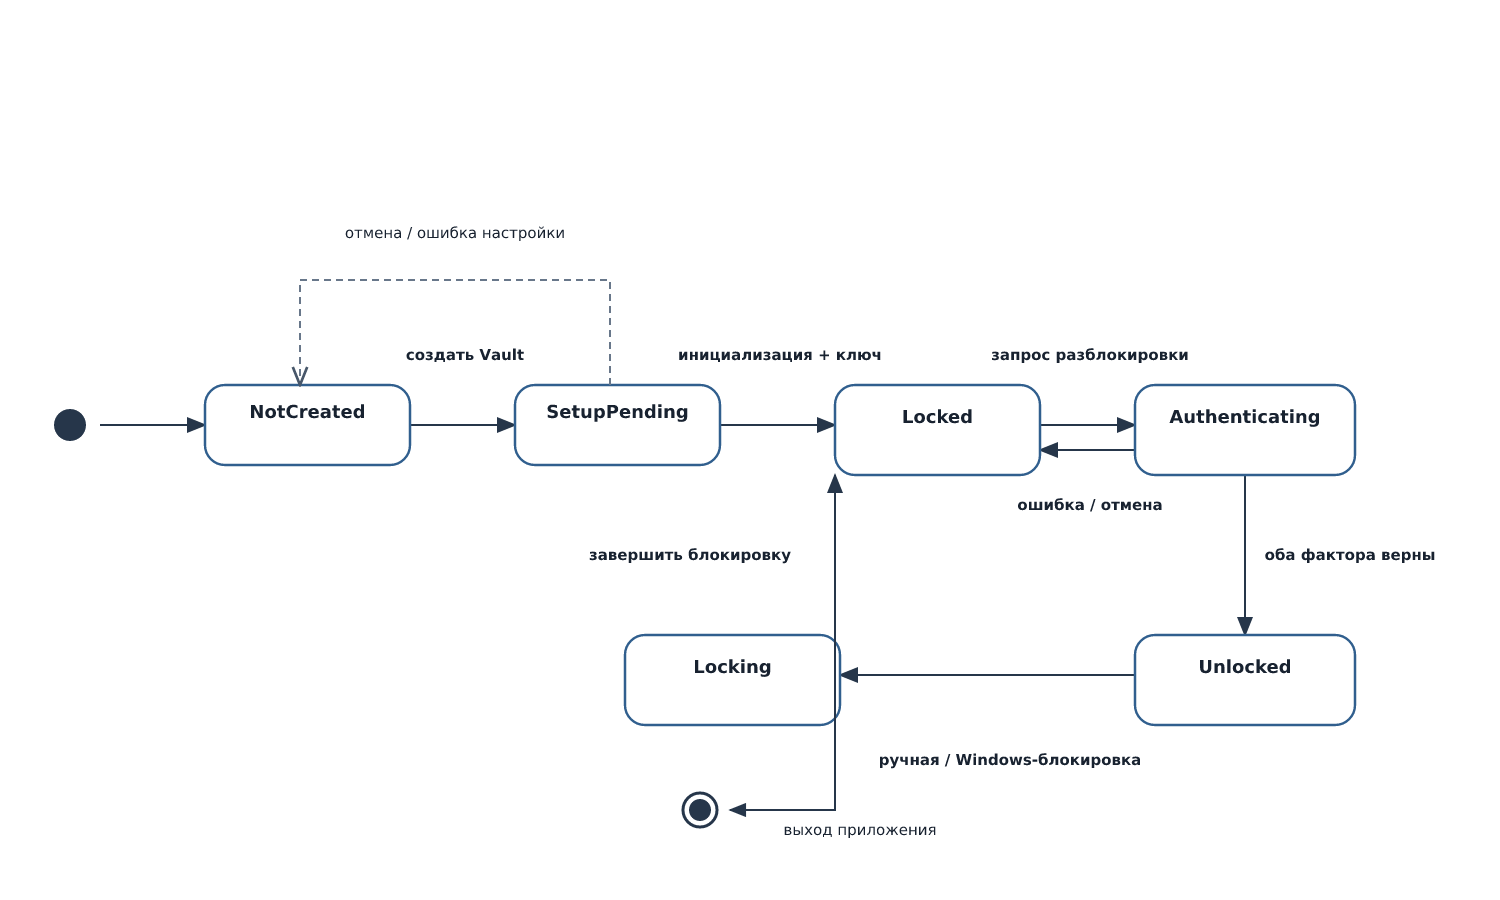
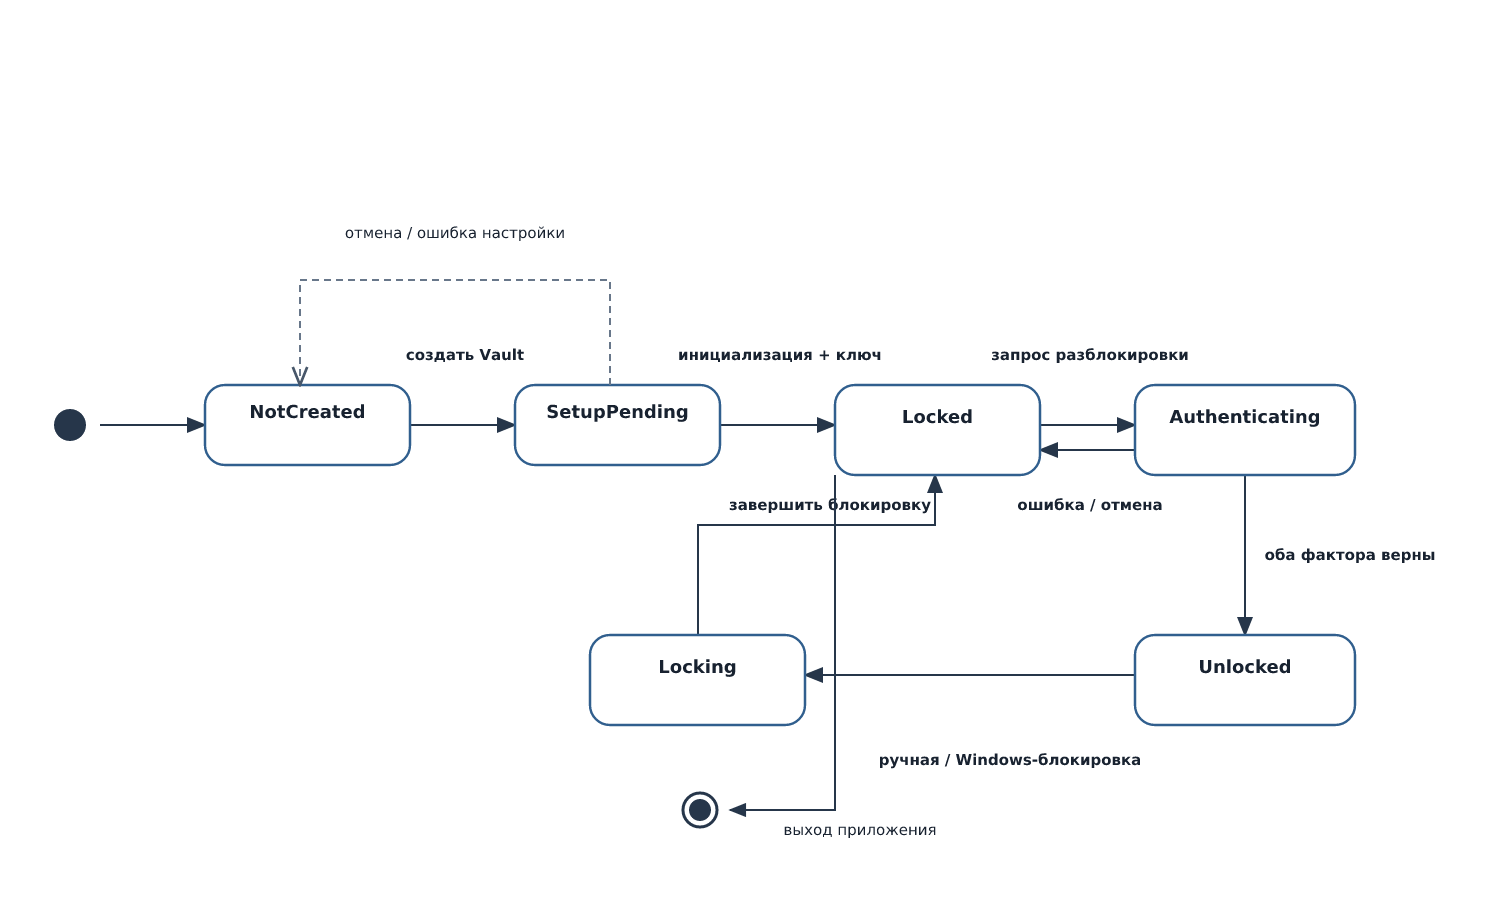
Route state exit arrow around Locking state

diff --git a/lab5/scripts/render_diagrams.py b/lab5/scripts/render_diagrams.py
@@ -188,8 +188,8 @@ def diagram_state():
     a.append(arrow(1040,425,1135,425,label="запрос разблокировки",lx=1090,ly=360))
     a.append(arrow(1245,475,1245,635,label="оба фактора верны",lx=1350,ly=560))
     a.append(arrow(1135,450,1040,450,label="ошибка / отмена",lx=1090,ly=510))
-    a.append(arrow(1135,675,840,675,label="ручная / Windows-блокировка",lx=1010,ly=765))
-    a.append(arrow(835,650,835,475,label="завершить блокировку",lx=690,ly=560))
+    a.append(arrow(1135,675,805,675,label="ручная / Windows-блокировка",lx=1010,ly=765))
+    a.append(orth_arrow([(698,635),(698,525),(935,525),(935,475)],label="завершить блокировку",lx=830,ly=510))
     # states
     a.append('<circle cx="70" cy="425" r="16" fill="#26364a"/>')
     a.append(state_box(205,385,205,80,["NotCreated"]))
@@ -197,7 +197,7 @@ def diagram_state():
     a.append(state_box(835,385,205,90,["Locked"], '#eef4fa'))
     a.append(state_box(1135,385,220,90,["Authenticating"], '#fff8ed'))
     a.append(state_box(1135,635,220,90,["Unlocked"], '#eef8f0'))
-    a.append(state_box(625,635,215,90,["Locking"], '#f4f8fc'))
+    a.append(state_box(590,635,215,90,["Locking"], '#f4f8fc'))
     # setup cancellation link
     a.append('<path d="M 610 385 L 610 280 L 300 280 L 300 385" fill="none" stroke="#68778a" stroke-width="1.8" stroke-dasharray="7 5" marker-end="url(#openArrow)"/>')
     a.append(text(455,238,"отмена / ошибка настройки",15,fill="#566579"))
